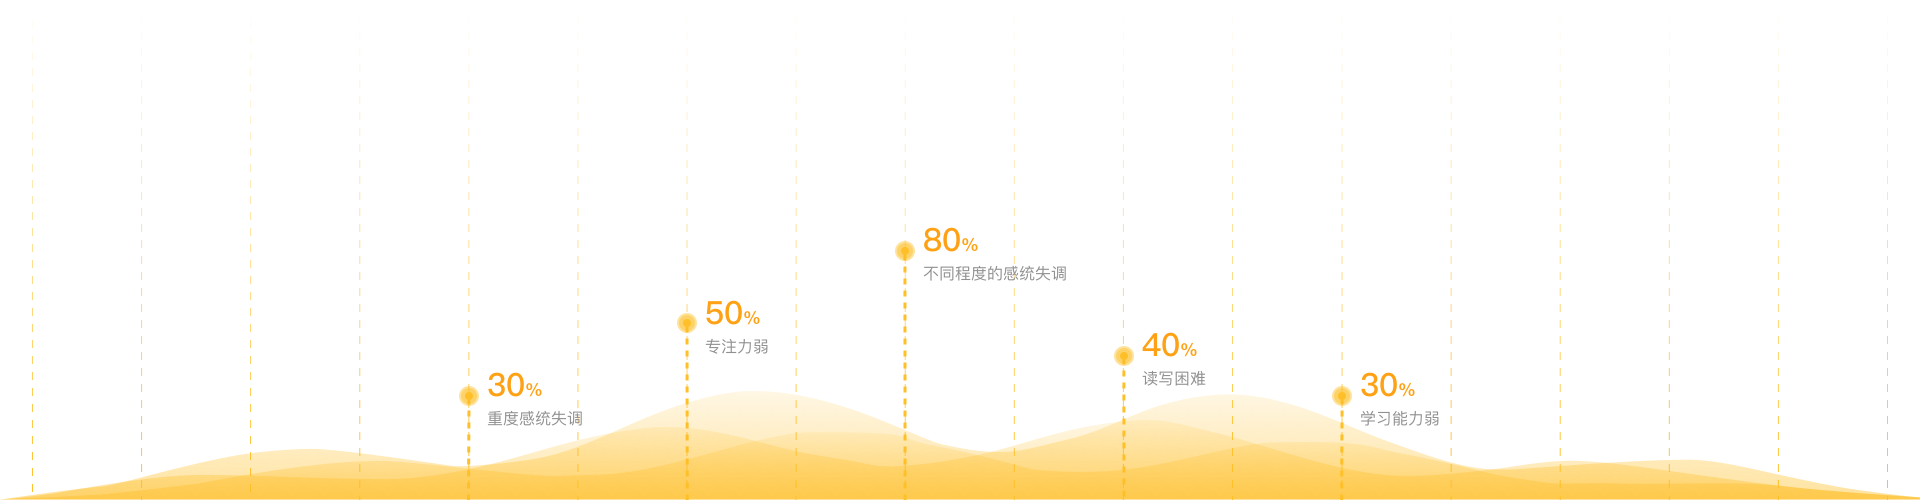
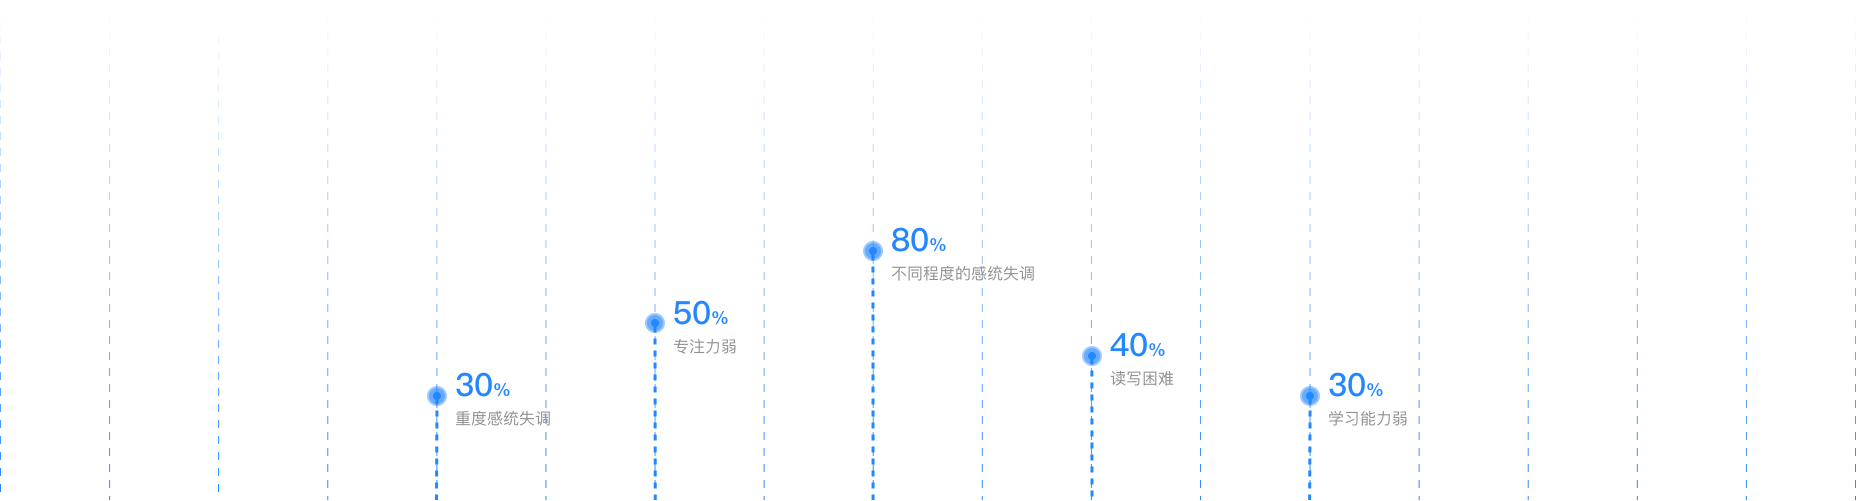
pub

Changed region(s): [[0.0, 0.6, 1.0, 1.0], [0.4688, 0.45, 0.5625, 0.57]]

diff --git a/src/views/join/pc.scss b/src/views/join/pc.scss
@@ -1,9 +1,54 @@
 @media screen and (min-width: 1200px) {
   .join {
-    .banner {
-      height: 600px;
-      display: block;
-      object-fit: cover;
+    .banner-wrapper {
+      width: 100%;
+      height: 100vh;
+      overflow: hidden;
+      position: relative;
+      .banner-ani {
+        width: 100%;
+        height: 100%;
+        object-fit: cover;
+      }
+      .content {
+        @include flex(column);
+        @include abs(0, 0, 100%, 100%);
+        background: linear-gradient(180deg, rgba(0, 0, 0, 0.35) 0%, rgba(5, 5, 5, 0.57) 60%, rgba(8, 8, 8, 0.65) 100%);
+        .title {
+          font-size: 48px;
+          font-weight: 600;
+          color: #FFFFFF;
+          line-height: 67px;
+          letter-spacing: 3px;
+          margin-bottom: 53px;
+        }
+        .btns {
+          @include flex();
+          > div {
+            height: 38px;
+            width: 133px;
+            @include flex();
+            cursor: pointer;
+            margin: 0 18px;
+            font-weight: 400;
+            color: #FFFFFF;
+            font-size: 16px;
+            line-height: 22px;
+            letter-spacing: 1px;
+            border-radius: 19px;
+            background: transparent;
+            border: 1px solid #FFFFFF;
+            &:hover {
+              background: #2487FF;
+              border-color: #2487FF;
+            }
+            &.enter {
+              background: #2487FF;
+              border-color: #2487FF;
+            }
+          }
+        }
+      }
     }
     .content {
       .sec1 {
@@ -39,9 +84,9 @@
             color: #565E61;
             line-height: 38px;
           }
-          video {
+          img {
             z-index: -1;
-            @include abs(55px, 0, 100%, 100%);
+            @include abs(0, 0, 100%, 100%);
           }
         }
       }
@@ -111,7 +156,7 @@
           font-size: 16px;
           line-height: 22px;
           border-radius: 30px;
-          background: #FEBF28;
+          background: #2487FF;
         }
       }
       .sec3 {

diff --git a/src/views/join/index.vue b/src/views/join/index.vue
@@ -1,12 +1,22 @@
 <template>
   <div class="join">
-    <img src="@/assets/join/1.png" class="banner">
+    <div class="banner-wrapper">
+      <img src="@/assets/join/banner.png">
+      <div class="content">
+        <div class="title">老岳讲感统合作伙伴，全国招募中</div>
+        <div class="btns">
+          <div class="cont" @mouseenter="enter = true" @mouseleave="enter = false" @click="$router.push('/about')">关于我们</div>
+          <div class="get" :class="{ enter: !enter }" @click="$d">立即申请</div>
+        </div>
+      </div>
+    </div>
     <div class="content">
       <div class="sec1">
         <div class="title move-in">携手老岳讲感统   共掘早教万亿市场</div>
         <div class="subtitle move-in">—————    market expectation   —————</div>
         <div class="content">
-          <video ref="bgVideo" class="move-in" src="@/assets/join/wave.mp4" muted autoplay loop />
+          <!-- <video ref="bgVideo" class="move-in" src="@/assets/join/wave.mp4" muted autoplay loop /> -->
+          <img ref="bgVideo" class="move-in" src="@/assets/join/data.png">
           <div class="text move-in">目前中国2~10岁儿童约有1.54亿，每年新出生人口2000万，随着二胎政策的开放，新生人口的数量还将增加。超过80%的儿童存在不同程度的感统失调，50%的儿童存在专注力弱的问题，40%的儿童存在重度感统失调。</div>
         </div>
       </div>
